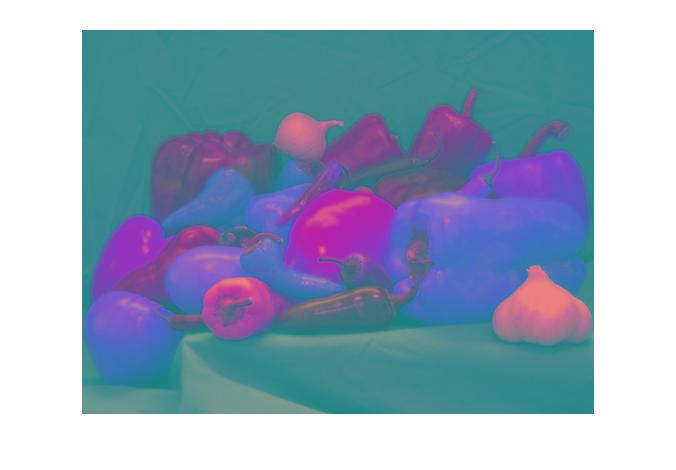
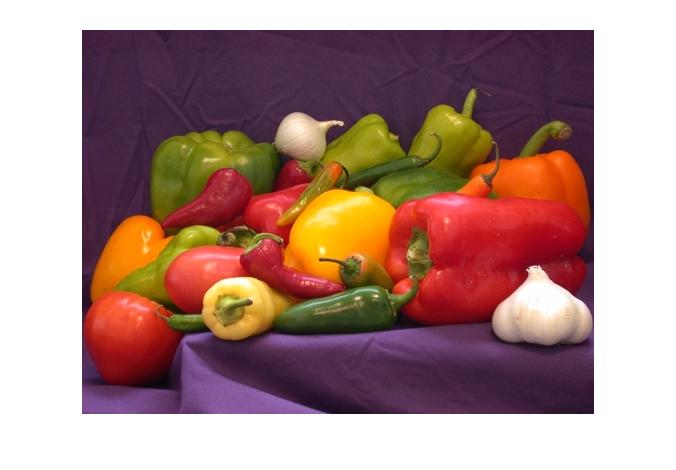
fixed images and stuff

diff --git a/20_chromaSubsampling.tex b/20_chromaSubsampling.tex
@@ -1,0 +1,64 @@
+\section{Chroma Subsampling}
+
+
+\begin{figure}[ht]
+\centering
+	\subfigure[Original image]{
+	\includegraphics[width=0.45\linewidth]{question2/toy}
+	}
+\end{figure}
+
+\begin{figure}[ht]
+\centering
+	\subfigure[Base Image]{
+	\includegraphics[width=0.45\linewidth]{question2/original image}
+	}
+	\subfigure[Luma Component]{
+	\includegraphics[width=0.45\linewidth]{question2/luma}
+	}
+	\subfigure[Cb Component]{
+	\includegraphics[width=0.45\linewidth]{question2/chroma_cb}
+	}
+	\subfigure[Cr Component]{
+	\includegraphics[width=0.45\linewidth]{question2/chroma_cr}
+	}
+	\subfigure[Chroma Subsampled]{
+	\includegraphics[width=0.45\linewidth]{question2/chroma_subsampled}
+	}
+	\subfigure[Luma Subsampled]{
+	\includegraphics[width=0.45\linewidth]{question2/luma_subsampled}
+	}
+	\caption{Pepper image with YCrCb subsampling}
+	\label{fig:noiseGeneration.toy}
+\end{figure}
+ 
+
+\subsection{Discussion questions}
+
+\subsubsection{Describe the Cb and Cr channel images. Why do they appear this way?}
+Cb is the blue difference chromatic component, and Cr is the red difference chromatic component.
+
+\subsubsection{Compare the level of image detail in the Cb and Cr images with the Y channel image. Which contains
+more ?ne details? What does that say about the luma (Y) and chroma (Cb and Cr) channels?}
+
+The Y channel contains the most fine image detail. This means that the majority of the high frequency components are found in the luma channel.
+
+\subsubsection{Compare the resulting image from chroma sub-sampling with the original image. How large are the
+visual differences}
+The visual differences are essentially non-existant.
+
+
+\subsubsection{Based on the resulting image, what can you say about chroma sub-sampling and its effect on image
+quality?}
+Based on the subsampled images, it can be said that chroma sub-sampling has next to no impact on 
+
+
+\subsubsection{Compare the resulting image from luma sub-sampling with the original image. How large are the
+visual differences?}
+The visual differences are more pronounced. The luma sub-sampled image is significantly blurrier than the original image.
+
+
+\subsubsection{ Compare the resulting image from luma sub-sampling with the image produced using chroma subsampling. Which method performs better? Why}
+
+\subsubsection{Based on the resulting image, what can you say about luma sub-sampling and its effect on image
+quality}

diff --git a/matlabFiles/lab3_q2.m b/matlabFiles/lab3_q2.m
@@ -9,15 +9,27 @@ figure(2);
 imshow(cb);
 figure(3);
 imshow(cr);
-cr = imresize(cr,0.5,'bilinear');
-cb = imresize(cb,0.5,'bilinear');
-cr = imresize(cr,2,'bilinear');
-cb = imresize(cb,2,'bilinear');
+cr2 = imresize(cr,0.5,'bilinear');
+cb2 = imresize(cb,0.5,'bilinear');
+cr2 = imresize(cr2,2,'bilinear');
+cb2 = imresize(cb2,2,'bilinear');
 img2 = img;
-img2(:,:,2) = cr;
-img2(:,:,2) = cb;
+img2(:,:,2) = cb2;
+img2(:,:,3) = cr2;
+
+
+y2 = imresize(y,0.5,'bilinear');
+y2 = imresize(y2,2,'bilinear');
+img3 = img;
+img3(:,:,1) = y2;
+
+r_img2 = ycbcr2rgb(img2);
+r_img3 = ycbcr2rgb(img3);
+r_img = ycbcr2rgb(img);
 
 figure(4);
-imshow(img);
+imshow(r_img);
 figure(5);
-imshow(img2);
+imshow(r_img2);
+figure(6);
+imshow(r_img3);
